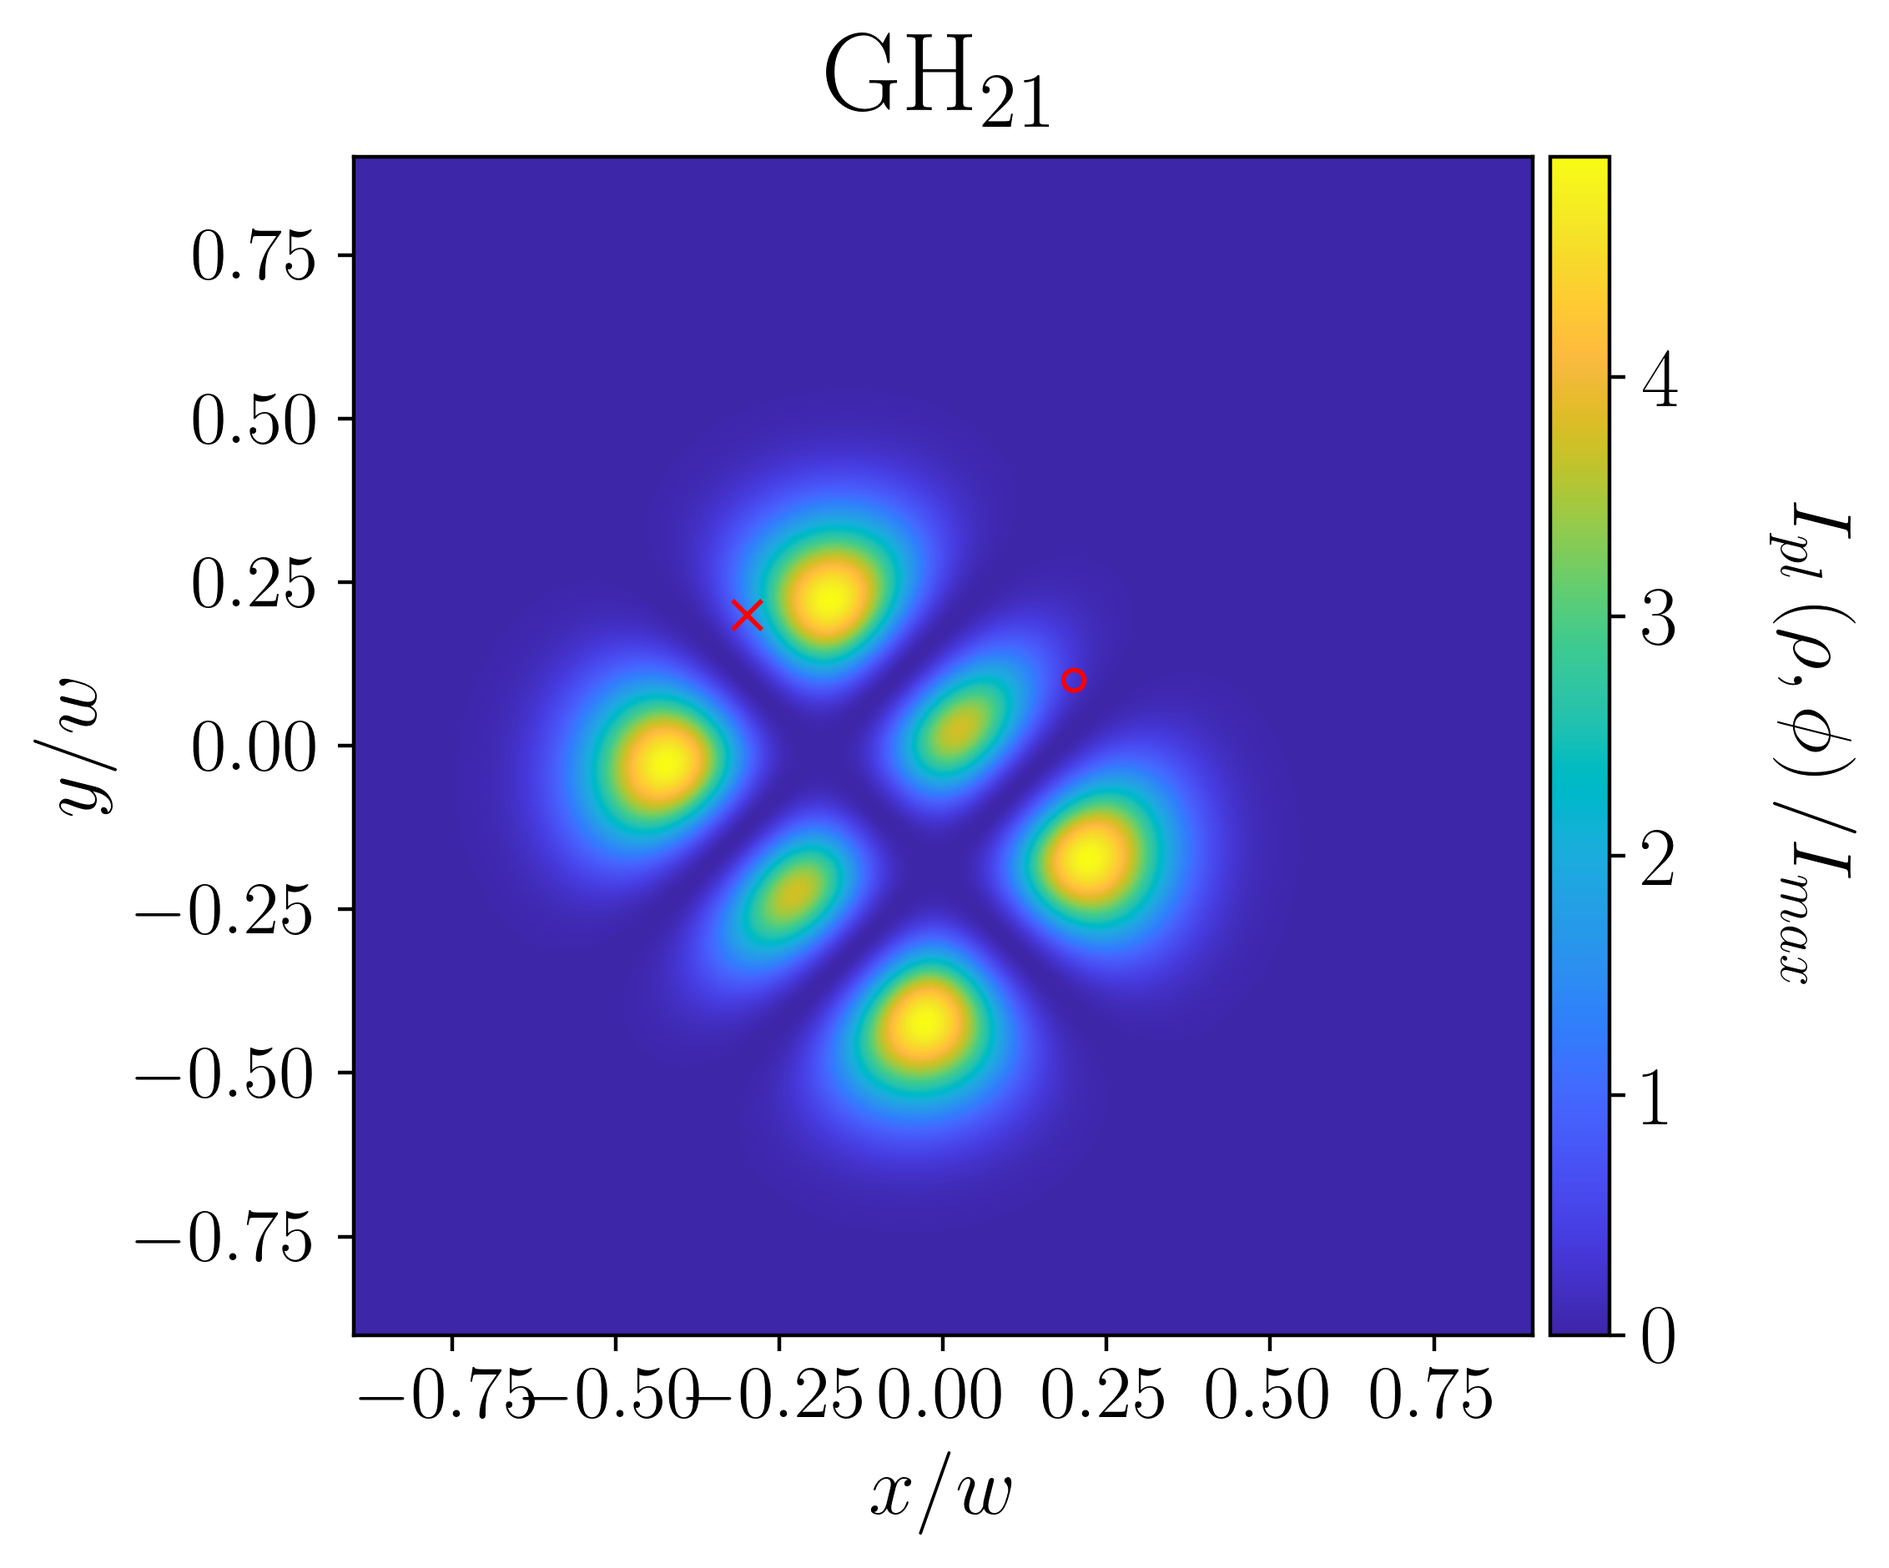
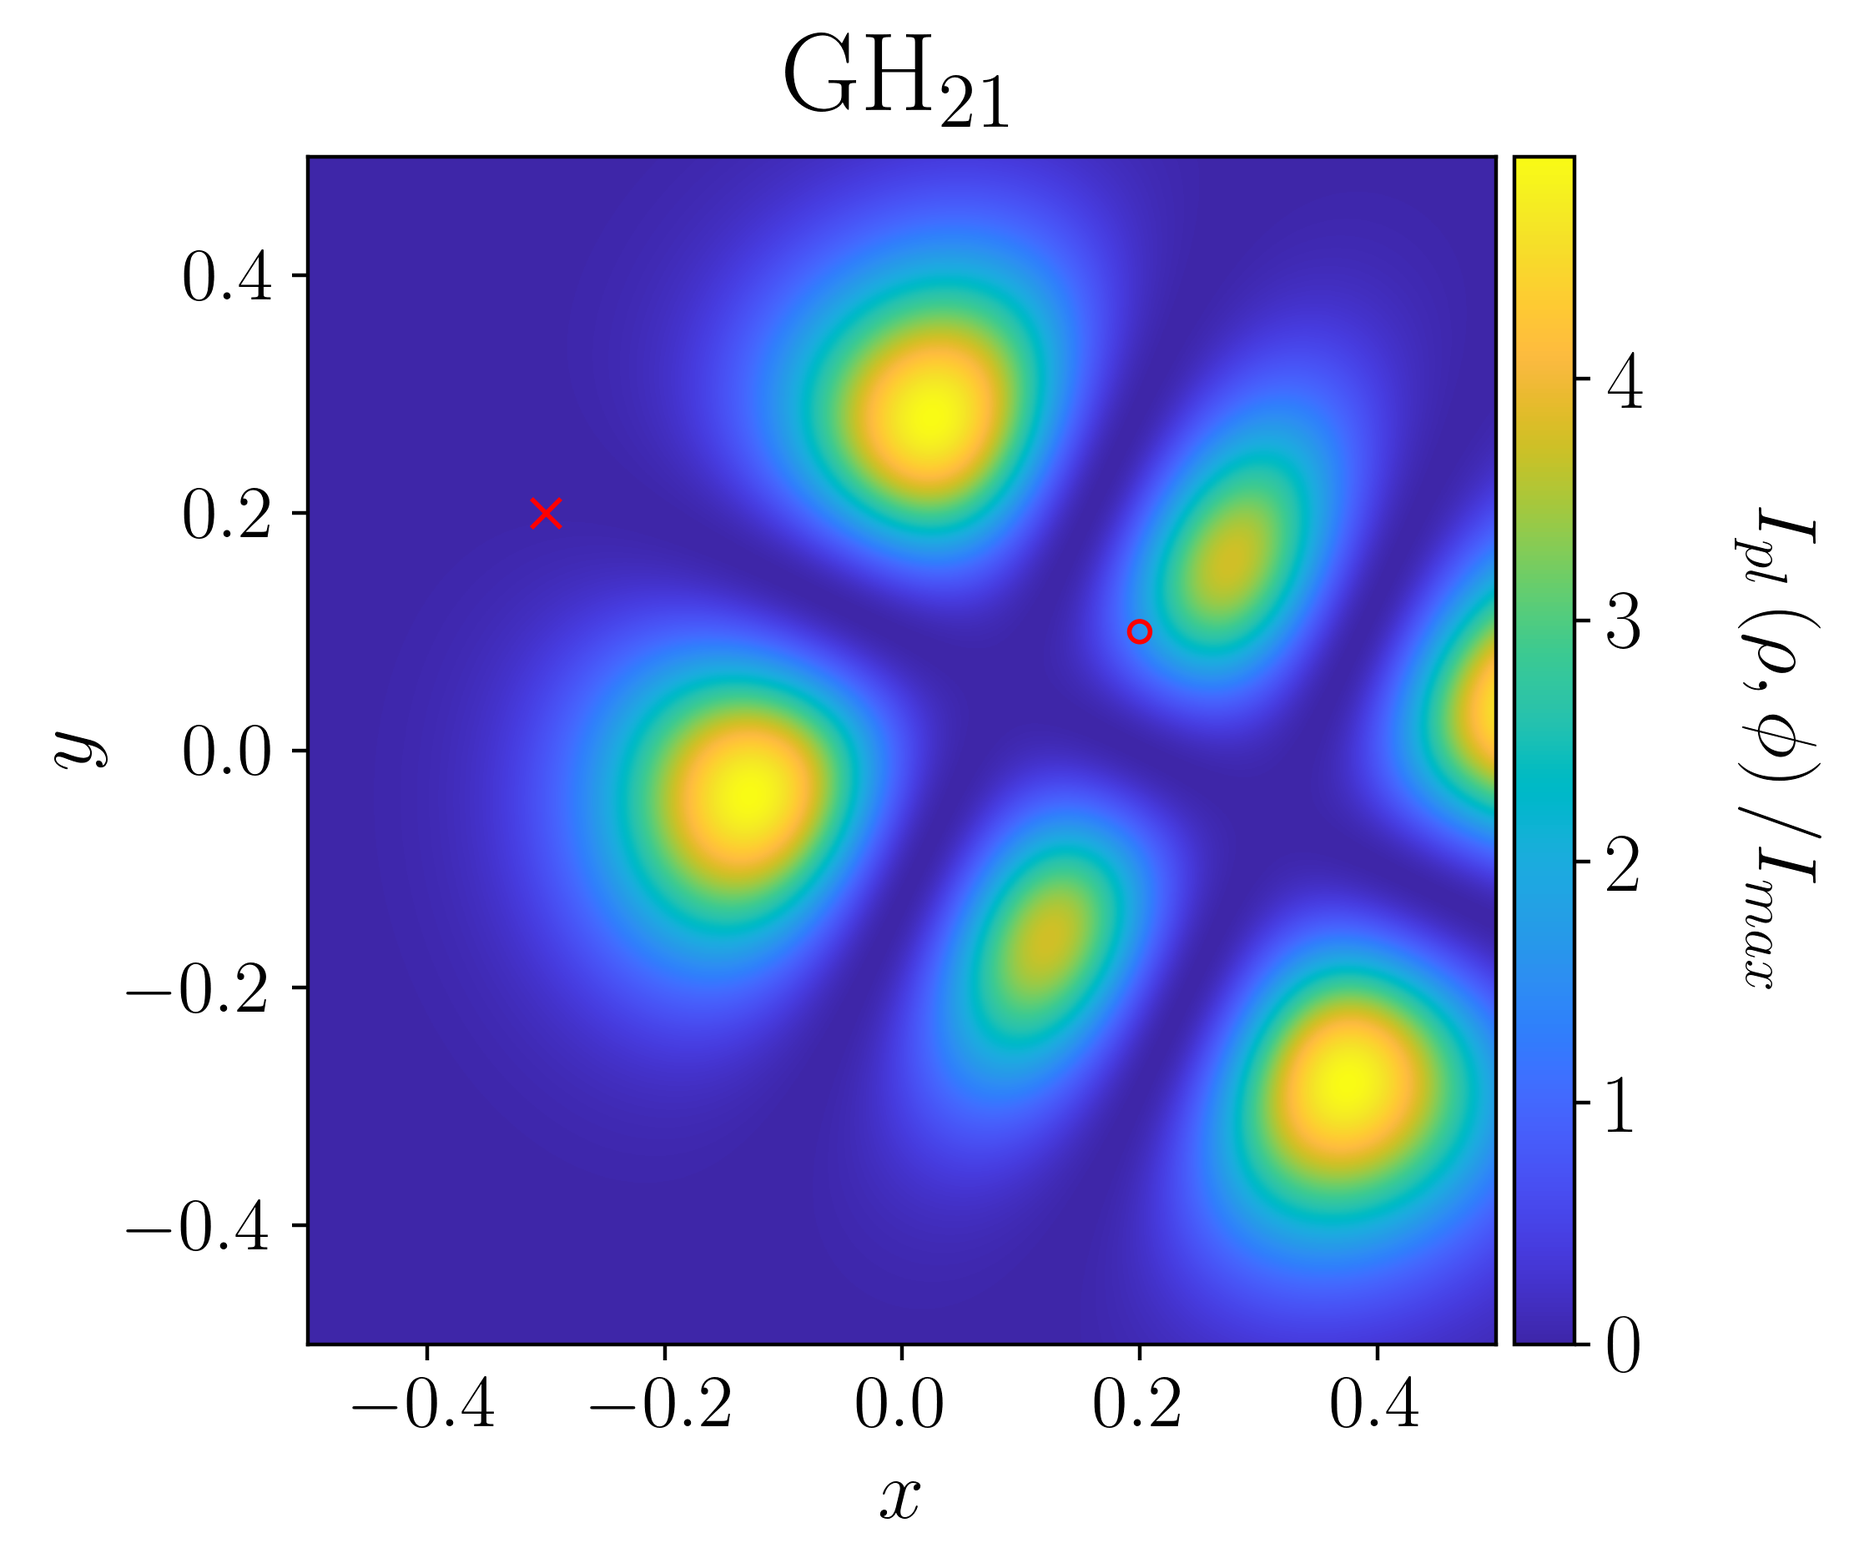
stuff

diff --git a/isolines.py b/isolines.py
@@ -17,12 +17,12 @@ def main() -> None:
     # light structures
     
     illumination_structures = [
-        GaussHermite(3, 1, 1., 0.25, center=[-0.1,-0.1], rotation=np.pi/4),
-        GaussHermite(0, 0, 1., 0.25, center=[-0.1,-0.1], rotation=np.pi/4),
-        GaussHermite(2, 1, 1., 0.25, center=[-0.1,-0.1], rotation=np.pi/4),
-        GaussLaguerre(1, 3, 1., 0.25, center=[0.1,0.1], rotation=np.pi/6),
-        GaussLaguerre(0, 3, 1., 0.25, center=[0.1,0.1], rotation=np.pi/6),
-        GaussLaguerre(0, 2, 1., 0.25, center=[0.1,0.1], rotation=np.pi/6)
+        GaussHermite(3, 1, 1., 0.25, center=[-0.1,-0.1], rotation=np.pi/5),
+        GaussHermite(0, 0, 1., 0.25, center=[-0.1,-0.1], rotation=np.pi/3),
+        GaussHermite(2, 1, 1., 0.25, center=[0.2,0.0], rotation=np.pi/7),
+        GaussLaguerre(1, 3, 1., 0.25, center=[0.2,0.0], rotation=np.pi),
+        GaussLaguerre(0, 3, 1., 0.25, center=[0.0,0.2], rotation=np.pi/11),
+        GaussLaguerre(0, 2, 1., 0.25, center=[0.0,0.2], rotation=np.pi/13)
     ]
     
     # emitters
@@ -43,8 +43,8 @@ def main() -> None:
     grid_y = 3750
     waists = 3
     
-    x_linspace = np.linspace(-detector.waist * 0.9, detector.waist * 0.9, grid_x)
-    y_linspace = np.linspace(-detector.waist * 0.9, detector.waist * 0.9, grid_y)
+    x_linspace = np.linspace(-detector.waist/2,detector.waist/2, grid_x)
+    y_linspace = np.linspace(-detector.waist/2,detector.waist/2, grid_y)
     
     x_meshgrid, y_meshgrid = np.meshgrid(
         x_linspace,
@@ -69,19 +69,20 @@ def main() -> None:
         )
         
         print(volume)
-        intensity_map /= np.abs(volume)
+        volume = 1.
+        # intensity_map /= np.abs(volume)
 
         plt.title(r'$\mathrm{' + illumination_structure.modeTypeString() + r'}_{' + f'{illumination_structure.orderString()}' + r'}$', fontsize=24, pad=10)
-        plt.pcolormesh(x_meshgrid / detector.waist, y_meshgrid / detector.waist, intensity_map, cmap=parula)
-        plt.xlabel(r"$x/w$", fontsize=18)
-        plt.ylabel(r"$y/w$", fontsize=18)
+        plt.pcolormesh(x_meshgrid, y_meshgrid, intensity_map, cmap=parula)
+        plt.xlabel(r"$x$", fontsize=18)
+        plt.ylabel(r"$y$", fontsize=18)
         plt.xticks(fontsize=4 + 12)
         plt.yticks(fontsize=4 + 12)
         cbar = plt.colorbar(pad=0.01)
         cbar.ax.tick_params(labelsize=18)
         cbar.set_label(r"$I_{pl}\left(\rho,\phi\right)/I_{max}$", fontsize=18, rotation=-90, labelpad=38)
-        plt.scatter(e_1.xy[0] / detector.waist, e_1.xy[1] / detector.waist, c='r', marker='x', s=40, linewidths=1)
-        plt.scatter(e_2.xy[0] / detector.waist, e_2.xy[1] / detector.waist, facecolors='none', edgecolors='r', marker='o', s=20, linewidths=1)
+        plt.scatter(e_1.xy[0], e_1.xy[1], c='r', marker='x', s=40, linewidths=1)
+        plt.scatter(e_2.xy[0], e_2.xy[1], facecolors='none', edgecolors='r', marker='o', s=20, linewidths=1)
         plt.gca().set_aspect(1)
         plt.tight_layout()
         plt.savefig(f'isolines/{illumination_structure.modeTypeString().lower()}_{illumination_structure.orderString()}_i_xy.png', dpi=400, bbox_inches='tight')
@@ -109,16 +110,16 @@ def main() -> None:
         g_1_guess = (p_1_true + p_2_guessed) / (e_1.relative_brightness + e_2.relative_brightness)
         
         plt.title(r'$\mathrm{' + illumination_structure.modeTypeString() + r'}_{' + f'{illumination_structure.orderString()}' + r'}$', fontsize=24, pad=10)
-        plt.pcolormesh(x_meshgrid / detector.waist, y_meshgrid / detector.waist, g_1_guess, cmap=parula)
-        plt.xlabel(r"$x/w$", fontsize=18)
-        plt.ylabel(r"$y/w$", fontsize=18)
+        plt.pcolormesh(x_meshgrid, y_meshgrid, g_1_guess, cmap=parula)
+        plt.xlabel(r"$x$", fontsize=18)
+        plt.ylabel(r"$y$", fontsize=18)
         plt.xticks(fontsize=4 + 12)
         plt.yticks(fontsize=4 + 12)
         cbar = plt.colorbar(pad=0.01)
         cbar.ax.tick_params(labelsize=18)
         cbar.set_label(r"$\mathsf{G}_{2}^{(1)}$", fontsize=18, rotation=-90, labelpad=38)
-        plt.scatter(e_1.xy[0] / detector.waist, e_1.xy[1] / detector.waist, c='r', marker='x', s=40, linewidths=1)
-        plt.scatter(e_2.xy[0] / detector.waist, e_2.xy[1] / detector.waist, facecolors='none', edgecolors='r', marker='o', s=20, linewidths=1)
+        plt.scatter(e_1.xy[0], e_1.xy[1], c='r', marker='x', s=40, linewidths=1)
+        plt.scatter(e_2.xy[0], e_2.xy[1], facecolors='none', edgecolors='r', marker='o', s=20, linewidths=1)
         plt.gca().set_aspect(1)
         plt.tight_layout()
         plt.savefig(f'isolines/{illumination_structure.modeTypeString().lower()}_{illumination_structure.orderString()}_g_1.png', dpi=400, bbox_inches='tight')
@@ -129,16 +130,16 @@ def main() -> None:
         g_2_guess = (2 * alpha) / (1 + alpha)**2 
         
         plt.title(r'$\mathrm{' + illumination_structure.modeTypeString() + r'}_{' + f'{illumination_structure.orderString()}' + r'}$', fontsize=24, pad=10)
-        plt.pcolormesh(x_meshgrid / detector.waist, y_meshgrid / detector.waist, g_2_guess, cmap=parula)
-        plt.xlabel(r"$x/w$", fontsize=18)
-        plt.ylabel(r"$y/w$", fontsize=18)
+        plt.pcolormesh(x_meshgrid, y_meshgrid, g_2_guess, cmap=parula)
+        plt.xlabel(r"$x$", fontsize=18)
+        plt.ylabel(r"$y$", fontsize=18)
         plt.xticks(fontsize=4 + 12)
         plt.yticks(fontsize=4 + 12)
         cbar = plt.colorbar(pad=0.01)
         cbar.ax.tick_params(labelsize=18)
         cbar.set_label(r"$\mathsf{G}_{2}^{(2)}$", fontsize=18, rotation=-90, labelpad=38)
-        plt.scatter(e_1.xy[0] / detector.waist, e_1.xy[1] / detector.waist, c='r', marker='x', s=40, linewidths=1)
-        plt.scatter(e_2.xy[0] / detector.waist, e_2.xy[1] / detector.waist, facecolors='none', edgecolors='r', marker='o', s=20, linewidths=1)
+        plt.scatter(e_1.xy[0], e_1.xy[1], c='r', marker='x', s=40, linewidths=1)
+        plt.scatter(e_2.xy[0], e_2.xy[1], facecolors='none', edgecolors='r', marker='o', s=20, linewidths=1)
         plt.gca().set_aspect(1)
         plt.tight_layout()
         plt.savefig(f'isolines/{illumination_structure.modeTypeString().lower()}_{illumination_structure.orderString()}_g_2.png', dpi=400, bbox_inches='tight')
@@ -153,17 +154,17 @@ def main() -> None:
         total_error += sum_squares
         
         plt.title(r'$\mathrm{' + illumination_structure.modeTypeString() + r'}_{' + f'{illumination_structure.orderString()}' + r'}$', fontsize=24, pad=10)
-        plt.pcolormesh(x_meshgrid / detector.waist, y_meshgrid / detector.waist, sum_squares, cmap=parula)
-        plt.xlabel(r"$x/w$", fontsize=18)
-        plt.ylabel(r"$y/w$", fontsize=18)
+        plt.pcolormesh(x_meshgrid, y_meshgrid, sum_squares, cmap=parula)
+        plt.xlabel(r"$x$", fontsize=18)
+        plt.ylabel(r"$y$", fontsize=18)
         plt.xticks(fontsize=4 + 12)
         plt.yticks(fontsize=4 + 12)
-        plt.gca().contour(x_meshgrid / detector.waist, y_meshgrid / detector.waist, sum_squares, linewidths=1, colors='k', levels=[np.min(sum_squares) + 0.00005])
+        plt.gca().contour(x_meshgrid, y_meshgrid, sum_squares, linewidths=1, colors='k', levels=[np.min(sum_squares) + 0.000005])
         cbar = plt.colorbar(pad=0.01)
         cbar.ax.tick_params(labelsize=18)
         cbar.set_label(r"$\left(\mathcal{G}_{2}^{(1)}-\mathsf{G}_{2}^{(1)}\right)^{2}+\left(\mathcal{G}_{2}^{(2)}-\mathsf{G}_{2}^{(2)}\right)^{2}$", fontsize=18, rotation=-90, labelpad=38)
-        plt.scatter(e_1.xy[0] / detector.waist, e_1.xy[1] / detector.waist, c='r', marker='x', s=40, linewidths=1)
-        plt.scatter(e_2.xy[0] / detector.waist, e_2.xy[1] / detector.waist, facecolors='none', edgecolors='r', marker='o', s=20, linewidths=1)
+        plt.scatter(e_1.xy[0], e_1.xy[1], c='r', marker='x', s=40, linewidths=1)
+        plt.scatter(e_2.xy[0], e_2.xy[1], facecolors='none', edgecolors='r', marker='o', s=20, linewidths=1)
         plt.gca().set_aspect(1)
         plt.tight_layout()
         plt.savefig(f'isolines/{illumination_structure.modeTypeString().lower()}_{illumination_structure.orderString()}_sum_squares.png', dpi=400, bbox_inches='tight')
@@ -172,17 +173,17 @@ def main() -> None:
     print(np.min(total_error))
         
     # plt.title(r'$\mathrm{' + illumination_structure.modeTypeString() + r'}_{' + f'{illumination_structure.orderString()}' + r'}$', fontsize=24, pad=10)
-    plt.pcolormesh(x_meshgrid / detector.waist, y_meshgrid / detector.waist, total_error, cmap=parula)
-    plt.xlabel(r"$x/w$", fontsize=18)
-    plt.ylabel(r"$y/w$", fontsize=18)
+    plt.pcolormesh(x_meshgrid, y_meshgrid, total_error, cmap=parula)
+    plt.xlabel(r"$x$", fontsize=18)
+    plt.ylabel(r"$y$", fontsize=18)
     plt.xticks(fontsize=4 + 12)
     plt.yticks(fontsize=4 + 12)
-    plt.gca().contour(x_meshgrid / detector.waist, y_meshgrid / detector.waist, total_error, linewidths=1, colors='k', levels=[np.min(total_error) + 0.0005])
+    plt.gca().contour(x_meshgrid, y_meshgrid, total_error, linewidths=1, colors='k', levels=[np.min(total_error) + 0.000005])
     cbar = plt.colorbar(pad=0.01)
     cbar.ax.tick_params(labelsize=18)
     cbar.set_label(r"$\mathrm{Sum\;Square\;Error}$", fontsize=18, rotation=-90, labelpad=38)
-    plt.scatter(e_1.xy[0] / detector.waist, e_1.xy[1] / detector.waist, c='r', marker='x', s=40, linewidths=1)
-    plt.scatter(e_2.xy[0] / detector.waist, e_2.xy[1] / detector.waist, facecolors='none', edgecolors='r', marker='o', s=20, linewidths=1)
+    plt.scatter(e_1.xy[0], e_1.xy[1], c='r', marker='x', s=40, linewidths=1)
+    plt.scatter(e_2.xy[0], e_2.xy[1], facecolors='none', edgecolors='r', marker='o', s=20, linewidths=1)
     plt.gca().set_aspect(1)
     plt.tight_layout()
     plt.savefig(f'isolines/total_error.png', dpi=400, bbox_inches='tight')

diff --git a/off_axis_localization.py b/off_axis_localization.py
@@ -2,8 +2,15 @@ import numpy as np
 from parula import parula
 import matplotlib.pyplot as plt
 import matplotlib
+
+matplotlib.rcParams['text.usetex'] = True
+
 from qclm import Emitter, GaussLaguerre, GaussHermite, Detector, Solver
 from scipy.optimize import minimize
+
+grid_x = 3750
+grid_y = 3750
+waists = 3
 
 def main() -> None:
     
@@ -11,15 +18,21 @@ def main() -> None:
     
     detector = Detector()
     
+    x_range = (-detector.waist / 2, detector.waist / 2)
+    y_range = (-detector.waist / 2, detector.waist / 2)
+    
+    x_linspace = np.linspace(*x_range, grid_x)
+    y_linspace = np.linspace(*y_range, grid_y)
+    
     # light structures
     
     illumination_structures = [
-        GaussHermite(3, 1, 1., 0.25, center=0.2 * np.random.randn(2,1), rotation=np.pi * np.random.randn()),
-        GaussHermite(0, 0, 1., 0.25, center=0.2 * np.random.randn(2,1), rotation=np.pi * np.random.randn()),
-        GaussHermite(2, 1, 1., 0.25, center=0.2 * np.random.randn(2,1), rotation=np.pi * np.random.randn()),
-        GaussLaguerre(1, 3, 1., 0.25, center=0.2 * np.random.randn(2,1), rotation=np.pi * np.random.randn()),
-        GaussLaguerre(0, 3, 1., 0.25, center=0.2 * np.random.randn(2,1), rotation=np.pi * np.random.randn()),
-        GaussLaguerre(1, 2, 1., 0.25, center=0.2 * np.random.randn(2,1), rotation=np.pi * np.random.randn())
+        GaussHermite(3, 1, 1., 0.5, center=[-0.1,-0.1], rotation=np.pi/5),
+        GaussHermite(0, 0, 1., 0.5, center=[-0.1,-0.1], rotation=np.pi/3),
+        GaussHermite(2, 1, 1., 0.5, center=[0.2,0.0], rotation=np.pi/7),
+        GaussLaguerre(1, 3, 1., 0.5, center=[0.2,0.0], rotation=np.pi),
+        GaussLaguerre(0, 3, 1., 0.5, center=[0.0,0.2], rotation=np.pi/11),
+        GaussLaguerre(0, 2, 1., 0.5, center=[0.0,0.2], rotation=np.pi/13)
     ]
     
     # emitters
@@ -31,7 +44,7 @@ def main() -> None:
 
     e_2 = Emitter(
         np.array([0.2,0.1]),
-        0.7
+        0.5
     )
     
     g_1_true = np.ndarray((len(illumination_structures),1))
@@ -71,11 +84,13 @@ def main() -> None:
         x_0 = 0.25 * np.random.randn(5,1)
         x_0[4] = 0.5
         
+        # x_0 = np.array([*e_1.xy,*e_2.xy,0.5])
+        
         opt_result = minimize(
             fun=solver.optimization_lambda,
             x0=x_0,
             method='Nelder-Mead',
-            bounds=[(-1,1),(-1,1),(-1,1),(-1,1),(0,1)]
+            bounds=[(-detector.waist/2,detector.waist/2),(-detector.waist/2,detector.waist/2),(-detector.waist/2,detector.waist/2),(-detector.waist/2,detector.waist/2),(0,1)]
         )
         
         x_opt[trial_idx,:] = opt_result.x
@@ -84,21 +99,17 @@ def main() -> None:
     
     plt.scatter(x_opt[0:,0],x_opt[0:,1], c='b', s=2., marker='.')
     plt.scatter(x_opt[0:,2],x_opt[0:,3], c='r', s=2., marker='.')
-    # plt.scatter(xy_objective[0], xy_objective[1], c='r', marker='.', s=40, linewidths=1.0, label=r'$\mathrm{Objective\;Location}$')
-    # plt.scatter(max_x,max_y, c='r', marker='x', s=40, linewidths=1.0, label=r'$\mathrm{Max\;Intensity}$')
-    # plt.scatter(emitters[0].xy[0],emitters[0].xy[1], c='k', marker='x', s=40, linewidths=1.0)
-    # plt.scatter(emitters[1].xy[0],emitters[1].xy[1], c='k', marker='x', s=40, linewidths=1.0)
-    # plt.scatter(x_opt[1,0],x_opt[1,1], c='k', s=40, marker='+', linewidths=0.5)
-    # plt.scatter(x_opt[1,2],x_opt[1,3], c='k', s=40, marker='+', linewidths=0.5)    
-    # plt.xlim(*x_range)
-    # plt.ylim(*y_range)
+    plt.scatter(e_1.xy[0], e_1.xy[1], c='r', marker='x', s=40, linewidths=1)
+    plt.scatter(e_2.xy[0], e_2.xy[1], facecolors='none', edgecolors='r', marker='o', s=20, linewidths=1)
+    plt.xlim(-detector.waist/2,detector.waist/2)
+    plt.ylim(-detector.waist/2,detector.waist/2)
     plt.xlabel(r"$x$", fontsize=18)
     plt.ylabel(r"$y$", fontsize=18)
     plt.xticks(fontsize=16)
     plt.yticks(fontsize=16)
     plt.gca().set_aspect(1)
     plt.tight_layout()
-    plt.show()
+    plt.savefig(f'localization-results/localization.png', dpi=400, bbox_inches='tight')
     
     
     

diff --git a/qclm.py b/qclm.py
@@ -19,9 +19,33 @@ class GaussLaguerre:
     
     rotation: float = 0
     
+    volume: float = 1.
+    
     def __post_init__(self) -> None:
         
         self.laguerre = genLaguerre(self.p, self.l)
+        
+        grid_x = 3750
+        grid_y = 3750
+        
+        x_linspace = np.linspace(-10, 10, grid_x)
+        y_linspace = np.linspace(-10, 10, grid_y)
+        
+        x_meshgrid, y_meshgrid = np.meshgrid(
+            x_linspace,
+            y_linspace
+        )
+        
+        intensity_map = self.intensityMap(x_meshgrid, y_meshgrid)
+        
+        volume = np.trapz(
+            y=np.asarray(
+                [np.trapz(y=intensity_row, x=x_linspace) for intensity_row in intensity_map[:]]
+            ),
+            x=y_linspace
+        )
+        
+        self.volume = volume
         
     def orderString(self) -> str:
         
@@ -48,7 +72,7 @@ class GaussLaguerre:
         
         gl_tem = self.I_0 * (rho**self.l) * (self.laguerre(rho)**2) * (np.cos(self.l * phi)**2) * np.exp(-rho)
         
-        return gl_tem
+        return gl_tem / self.volume
     
     def intensityMap(self, x_meshgrid, y_meshgrid):
         
@@ -67,10 +91,34 @@ class GaussHermite:
     
     rotation: float = 0.
     
+    volume: float = 1.
+    
     def __post_init__(self) -> None:
         
         self.gh_m = genHermite(self.m)
         self.gh_n = genHermite(self.n)
+        
+        grid_x = 3750
+        grid_y = 3750
+        
+        x_linspace = np.linspace(-10, 10, grid_x)
+        y_linspace = np.linspace(-10, 10, grid_y)
+        
+        x_meshgrid, y_meshgrid = np.meshgrid(
+            x_linspace,
+            y_linspace
+        )
+        
+        intensity_map = self.intensityMap(x_meshgrid, y_meshgrid)
+        
+        volume = np.trapz(
+            y=np.asarray(
+                [np.trapz(y=intensity_row, x=x_linspace) for intensity_row in intensity_map[:]]
+            ),
+            x=y_linspace
+        )
+        
+        self.volume = volume
         
     def orderString(self) -> str:
         
@@ -94,7 +142,7 @@ class GaussHermite:
         
         norm_coeff = 1. / (2. * self.waist**2 * np.pi * [0.5, 1, 4, 24][self.m] * [0.5, 1, 4, 24][self.n])
         
-        return norm_coeff * (self.gh_m((2**0.5 * relative_x) / self.waist) * np.exp(-relative_x**2 / self.waist**2))**2 * (self.gh_n((2**0.5 * relative_y) / self.waist) * np.exp(-relative_y**2 / self.waist**2))**2
+        return (1. / self.volume) * norm_coeff * (self.gh_m((2**0.5 * relative_x) / self.waist) * np.exp(-relative_x**2 / self.waist**2))**2 * (self.gh_n((2**0.5 * relative_y) / self.waist) * np.exp(-relative_y**2 / self.waist**2))**2
     
     def intensityMap(self, x_meshgrid, y_meshgrid):
         
